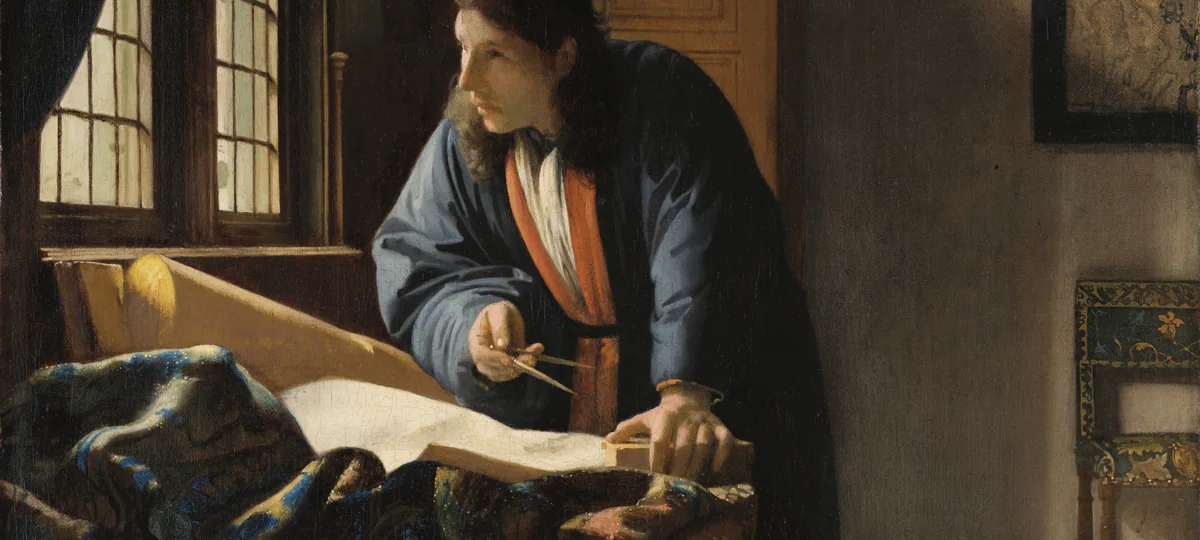
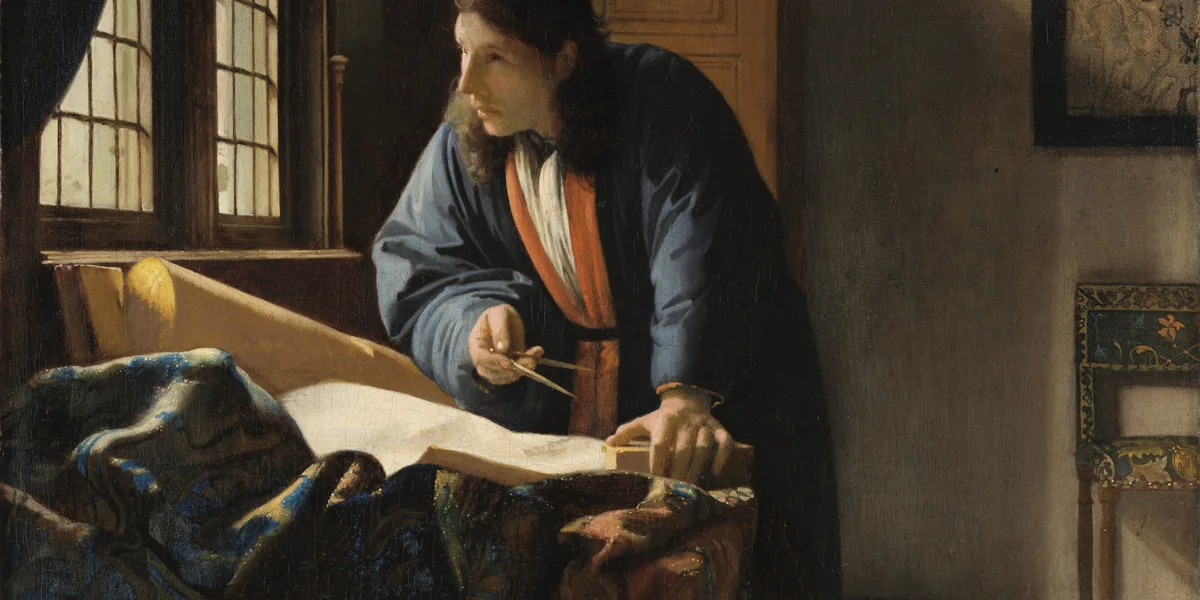
feat: a taller plate, and four hues far enough apart to tell apart
Two problems, both measured rather than felt.

The plates were cut to 20:9, which is too shallow a letterbox for canvases
this upright. It left the Geographer no headroom above his head and reduced
the Constable's sky to a strip. The fix is not a different crop: each plate
already used the full width of its source, so the only lever for a wider
field of view was a taller box. 50vw is exactly 2:1, and it buys about
eleven percent more of every painting. Keeper gains air above the hats,
conductor gains its sky back, thinker gains both headroom and the far edge
of the table, so the man and the chart he is working now read as one mass
rather than two. Two anchors moved with it: reporter to 0.78, which lifts
the whole figure clear of the top edge, and thinker to 0.56.

The palettes were four browns, and the reason is worth recording so nobody
re-derives them the same way. Sampling the plates for their dominant hue
returns 7 to 52 degrees for all three paintings, because that is what aged
varnish does, and the fourth plate has no chroma at all: zero pixels above
a tenth of saturation. So the hues are chosen rather than averaged. Each
painting takes the note it genuinely owns instead of the note that covers
the most pixels. Keeper takes the red of the table carpet, which measures
0.65 saturation and is the loudest colour anywhere in the set although it is
only a tenth of that plate's chroma. Thinker takes the ochre that is 83
[…]

diff --git a/docs/stylesheets/theme.css b/docs/stylesheets/theme.css
@@ -1,15 +1,21 @@
 /* Material palette for thinker, drawn from its own plate: ochre, the cabinet and the daylight on the chart.
    Matte on purpose. The header should read as the same surface as the
-   painting below it, not as a band of product colour sitting on top. */
+   painting below it, not as a band of product colour sitting on top.
+
+   The four hues are pushed apart on purpose. Measured, three of the plates
+   sit inside one warm band from 7 to 52 degrees, because varnish does that
+   to an old painting, and the fourth has no chroma at all. Sampling alone
+   would have produced four browns, so each takes the note it genuinely owns
+   and the greyscale plate takes the cool gap. */
 :root > * {
   --md-primary-fg-color:        #272116;
-  --md-primary-fg-color--light: #3f3727;
+  --md-primary-fg-color--light: #3f3627;
   --md-primary-fg-color--dark:  #1b160e;
-  --md-accent-fg-color:         #ac976c;
-  --md-accent-fg-color--transparent: #ac976c1a;
+  --md-accent-fg-color:         #ac946c;
+  --md-accent-fg-color--transparent: #ac946c1a;
 }
 
 [data-md-color-scheme="slate"] {
   --md-default-bg-color: #11100d;
-  --md-typeset-a-color:  #ac976c;
+  --md-typeset-a-color:  #ac946c;
 }

diff --git a/docs/stylesheets/hero.css b/docs/stylesheets/hero.css
@@ -1,5 +1,5 @@
 /* Landing-page hero. Full-bleed plate, left wash, editorial masthead.
-   The image files are pre-cropped to 20:9 at a per-painting anchor, so this
+   The image files are pre-cropped to 2:1 at a per-painting anchor, so this
    sheet only has to place type over them and keep it legible. */
 
 .hero {
@@ -9,11 +9,12 @@
      would clip that sliver away. */
   overflow: visible;
   background: var(--md-default-bg-color);
-  /* 45vw is exactly 20:9, the aspect the plates are cut to, so `cover` throws
-     nothing away between roughly 850px and 2300px of viewport. The old fixed
-     660px cap meant a 1920px screen saw only 68 percent of the plate height
-     and a 2560px screen barely half, which is what was cutting off heads. */
-  height: clamp(380px, 45vw, 1040px);
+  /* 50vw is exactly 2:1, the aspect the plates are cut to, so `cover` throws
+     nothing away between roughly 760px and 2080px of viewport. The plates were
+     cut to 20:9 first, and that letterbox was too shallow for canvases this
+     upright: it left the Geographer no headroom and reduced the Constable's
+     sky to a strip. */
+  height: clamp(380px, 50vw, 1040px);
   margin-top: -1px;
 }
 
